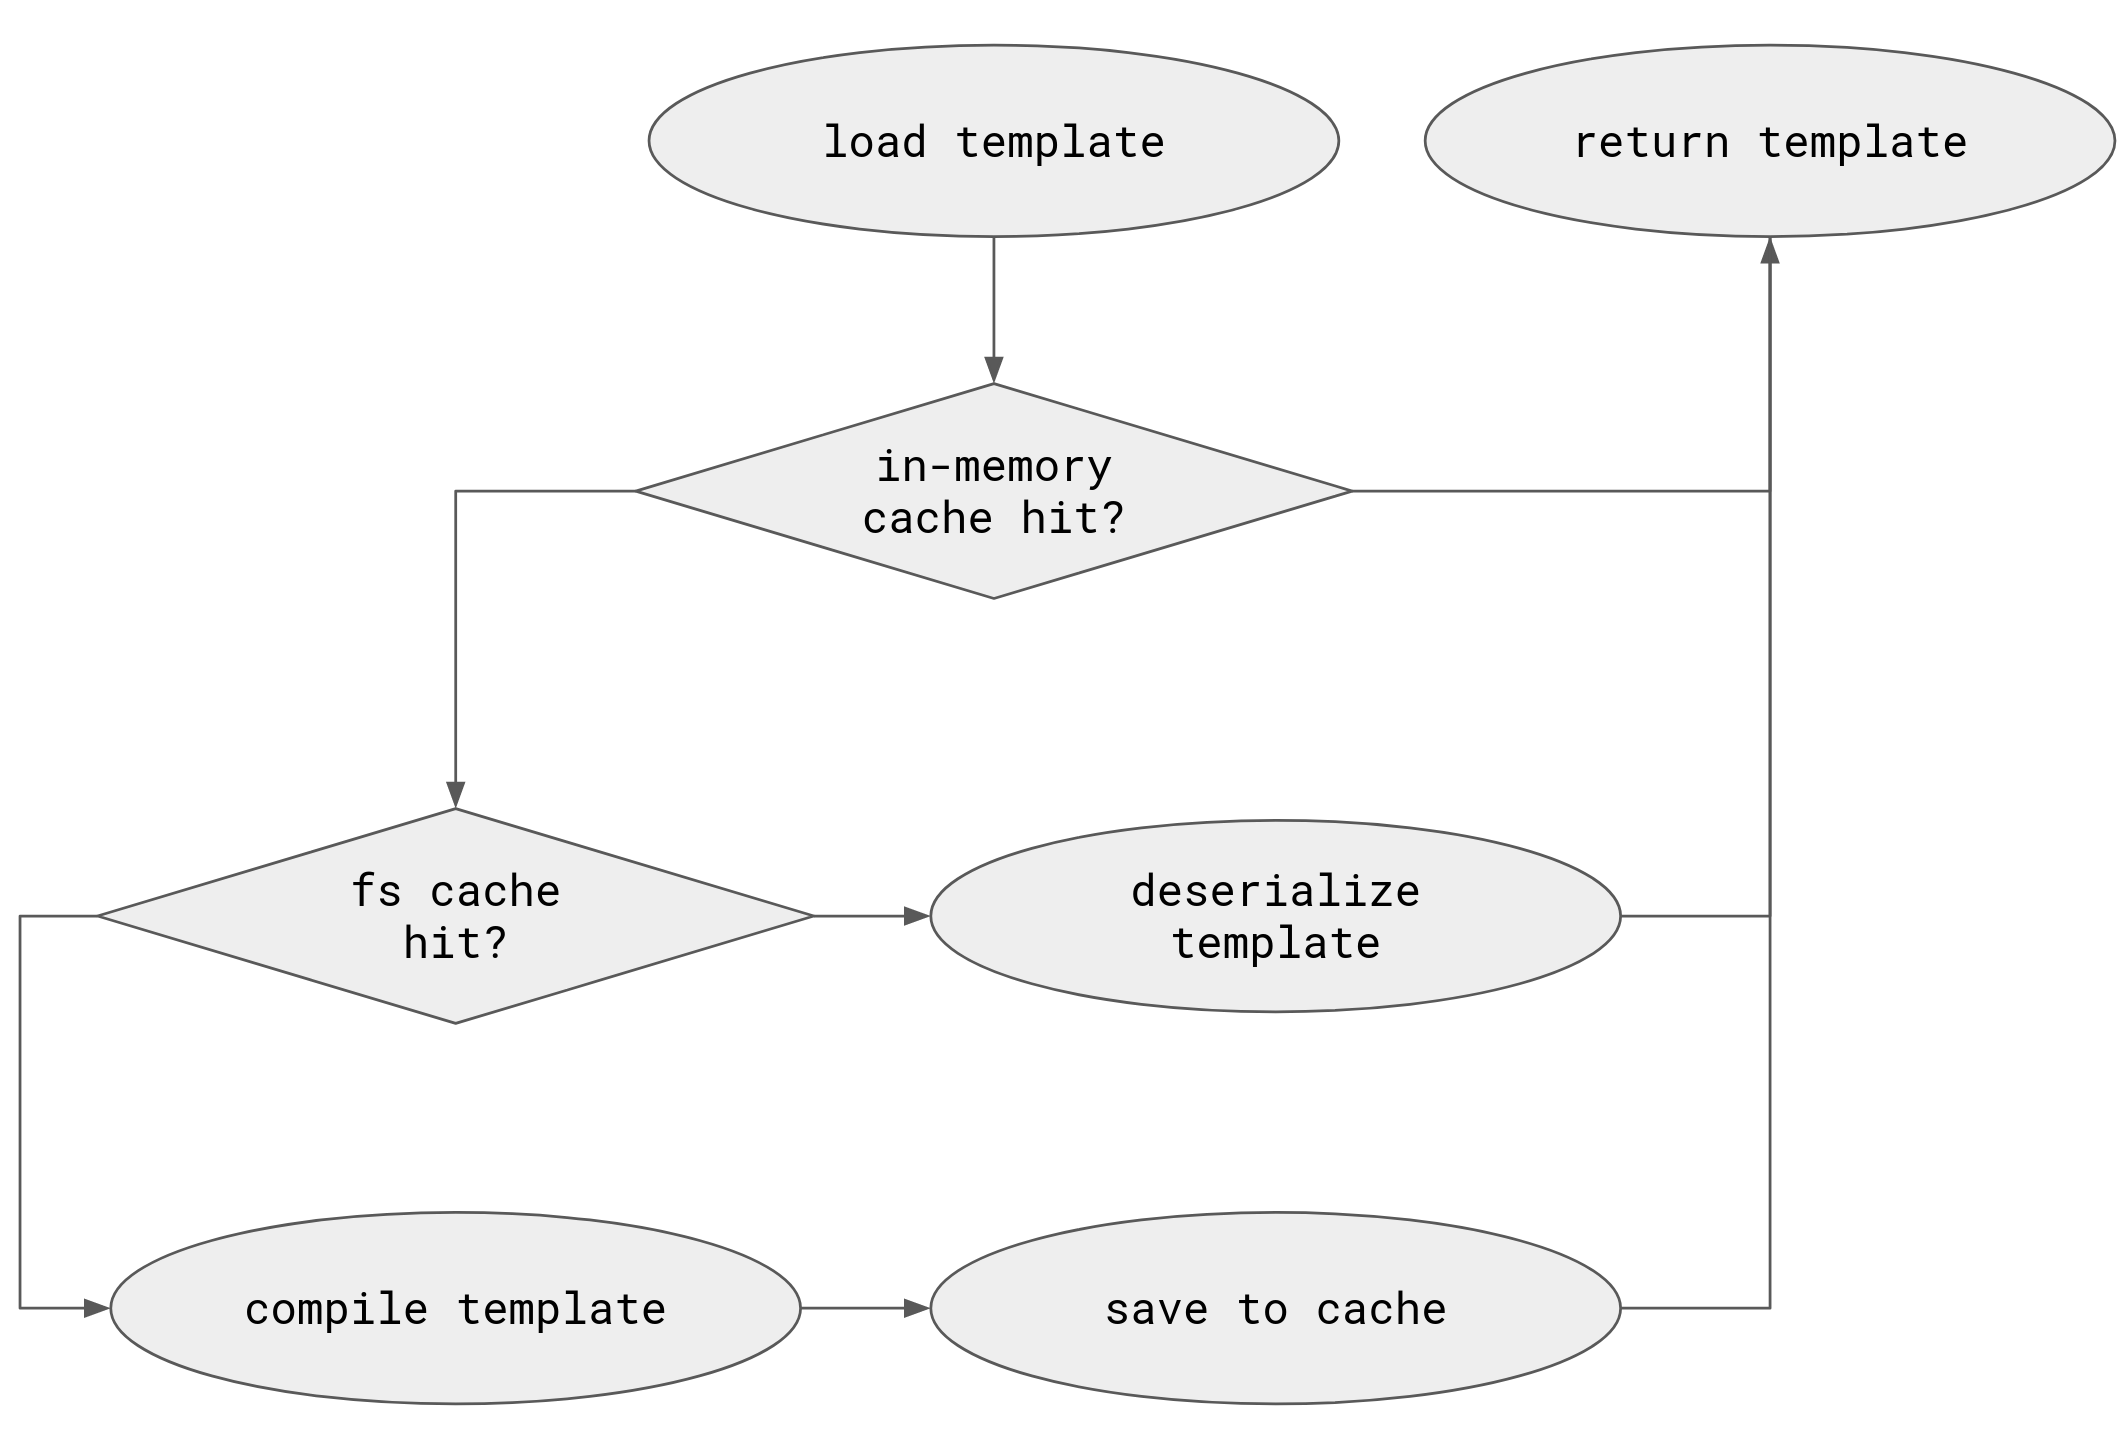
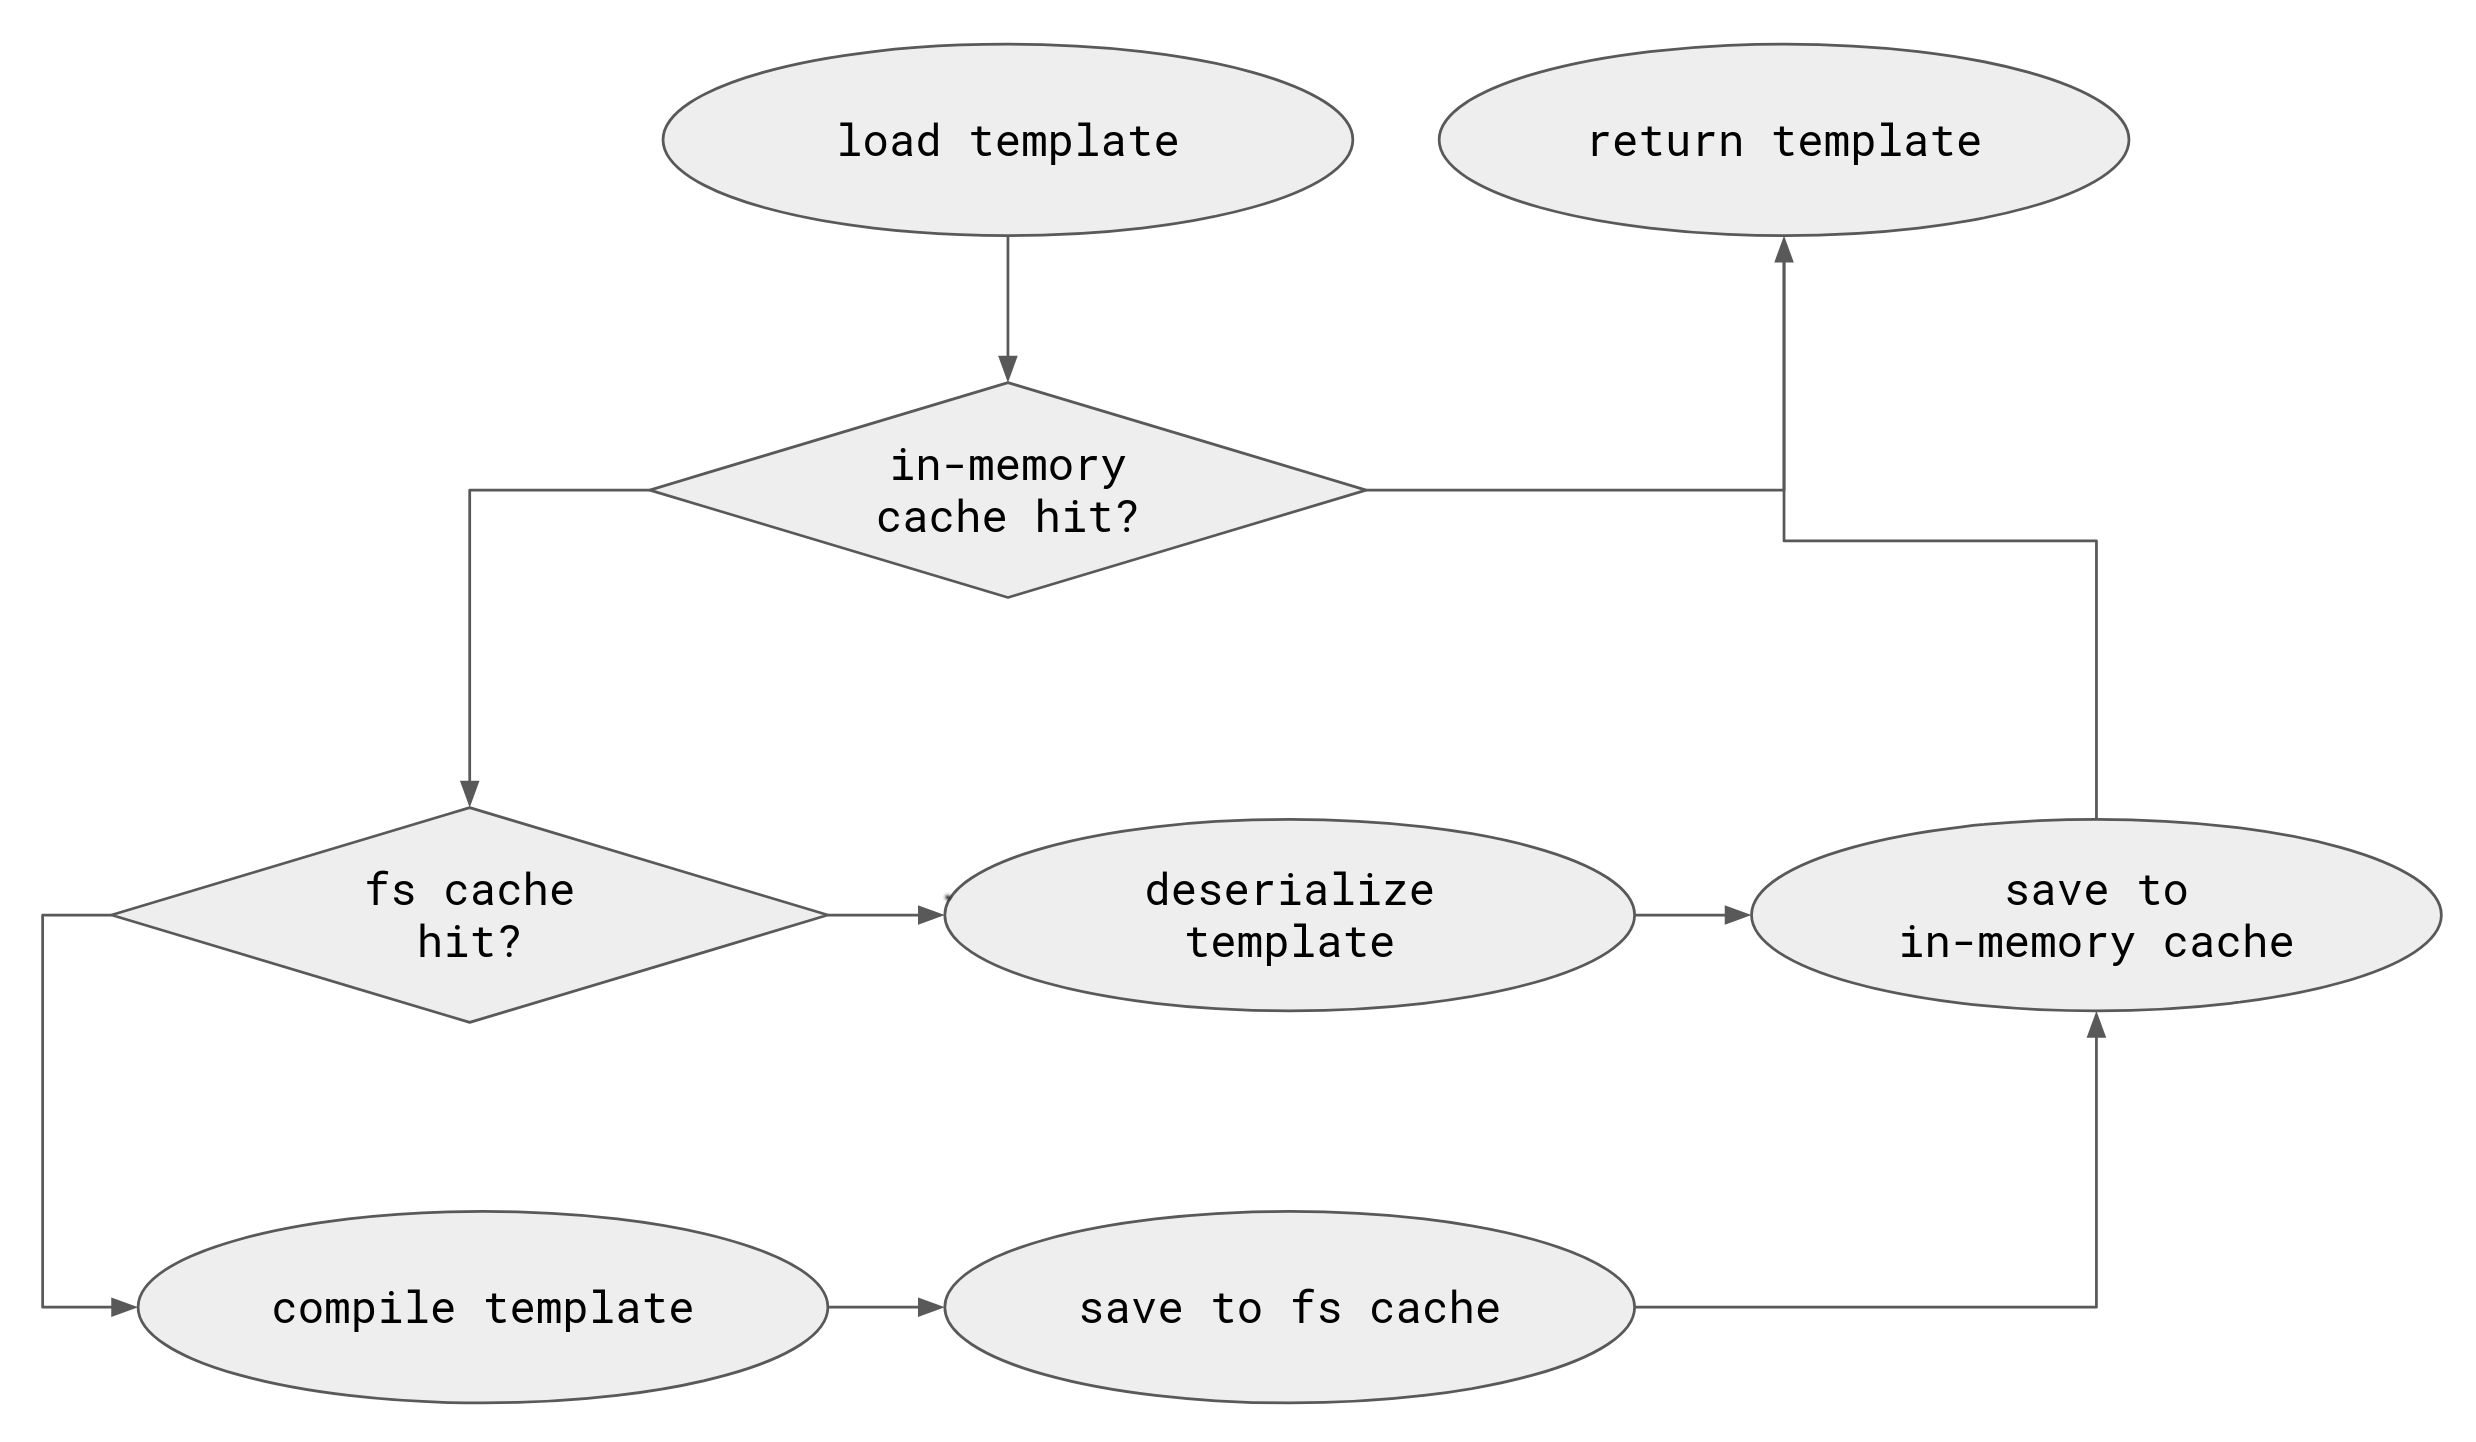
docs: more architecture info

diff --git a/_docs/ktemplate_architecture.md b/_docs/ktemplate_architecture.md
@@ -1,4 +1,54 @@
 # KTemplate Architecture
 
+## Template load pipeline
+
 ![load_pipeline](assets/template_load_pipeline.png)
 
+When `Engine::load` is called, this is what happens under the hood:
+
+1. Chech whether our request-local in-memory cache already contains a compiled template. It's a simple array lookup using the resolved **template path** as a key. If it's there, return that.
+
+2. Otherwise check if `Context::cache_dir` is set. In that case, check whether that directory contains the serialized template object. If such file is found, load it, save it to the in-memory cache and return the freshly created template.
+
+3. Otherwise compile the template. Save results to the in-memory cache. If `Context::cache_dir` is set, serialize the template for future use (this will be useful during the next request).
+
+## KTemplate opcodes
+
+The templates are compiled to a specialized bytecode-like form that is then executed by the interpreter.
+
+Every instruction occupies an entire PHP `int` type, so it's not exactly a bytecode; although the **opcode** part always fits in 8 bits. We call this `int` value an **opdata**. An opdata is a representation of one VM **instruction**.
+
+This expression always extracts the opcode part of opdata: `$opdata & 0xff`.
+
+Depending on the opcode, there could be more instruction arguments encoded inside **opdata**. Most of the arguments occupy 8 bits, but some of them take 16 bits.
+
+For example, const indexes (IDs) are 16-bits wide to allow values up to `0xffff`. Jump offsets are also 16-bits to make it possible to jump further.
+
+Lets take a look at `JUMP_FALSY` instruction encoding.
+
+```
+0x29 pcdelta:rel16 cond:rslot
+```
+
+`0x22` is an opcode, then we have a 16-bit argument of relative jump target, plus a second argument - a jump condition in form of a frame slot index.
+
+To unpack all the arguments, we apply bitwise operations:
+
+```php
+$opdata = $code[$pc]; // Extract the current instruction opdata
+$op = $opdata & 0xff;
+$rel16 = ($opdata >> 8) & 0xffff;
+$cond_slot = ($opdata >> 24) & 0xff;
+```
+
+Then we can implement this operation inside the interpreter like so:
+
+```php
+if (!$state->slots[$cond_slot]) {
+    $pc += $rel16;
+}
+```
+
+It's important to keep in mind that there can be no single instruction that exceeds 64 bits.
+
+The `Op.php` contains all KTemplate instructions info. This file is generated by `_script/gen_opcodes/main.go`. To add a new instruction or modify the existing one, change the generator, not the generated file.
